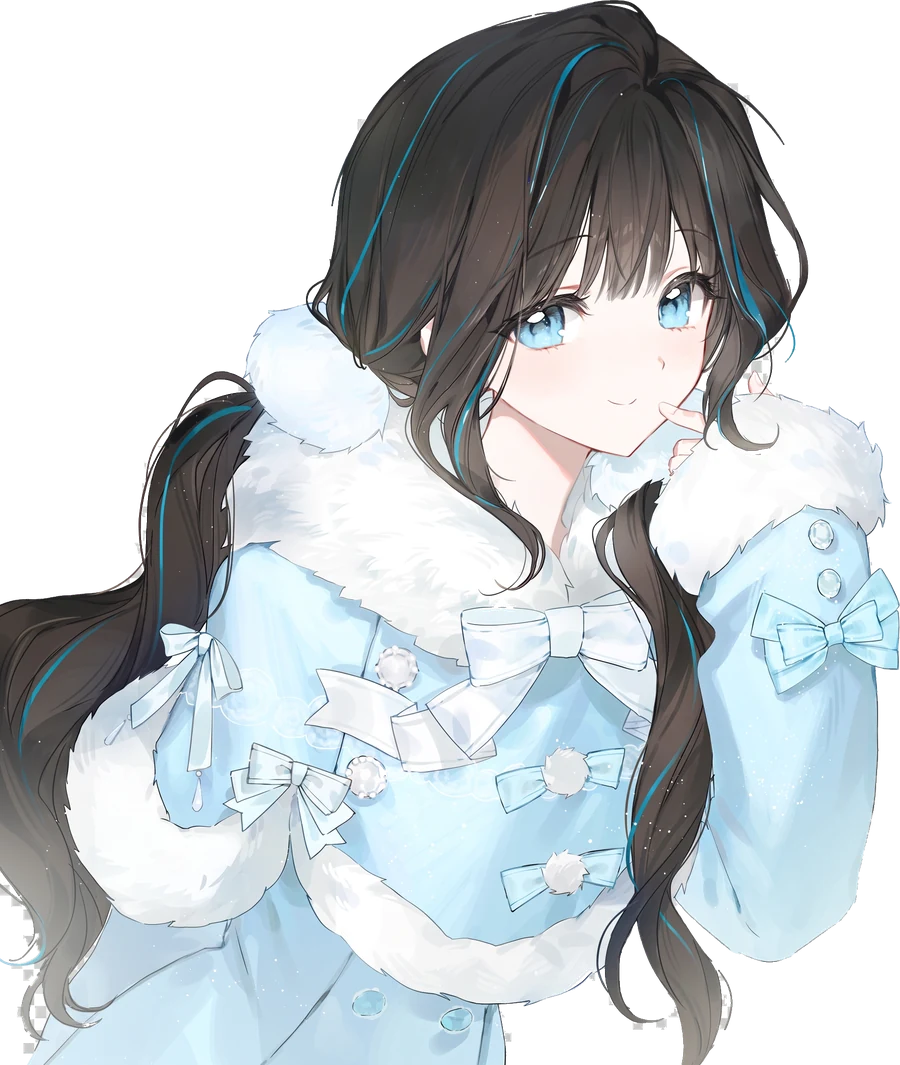
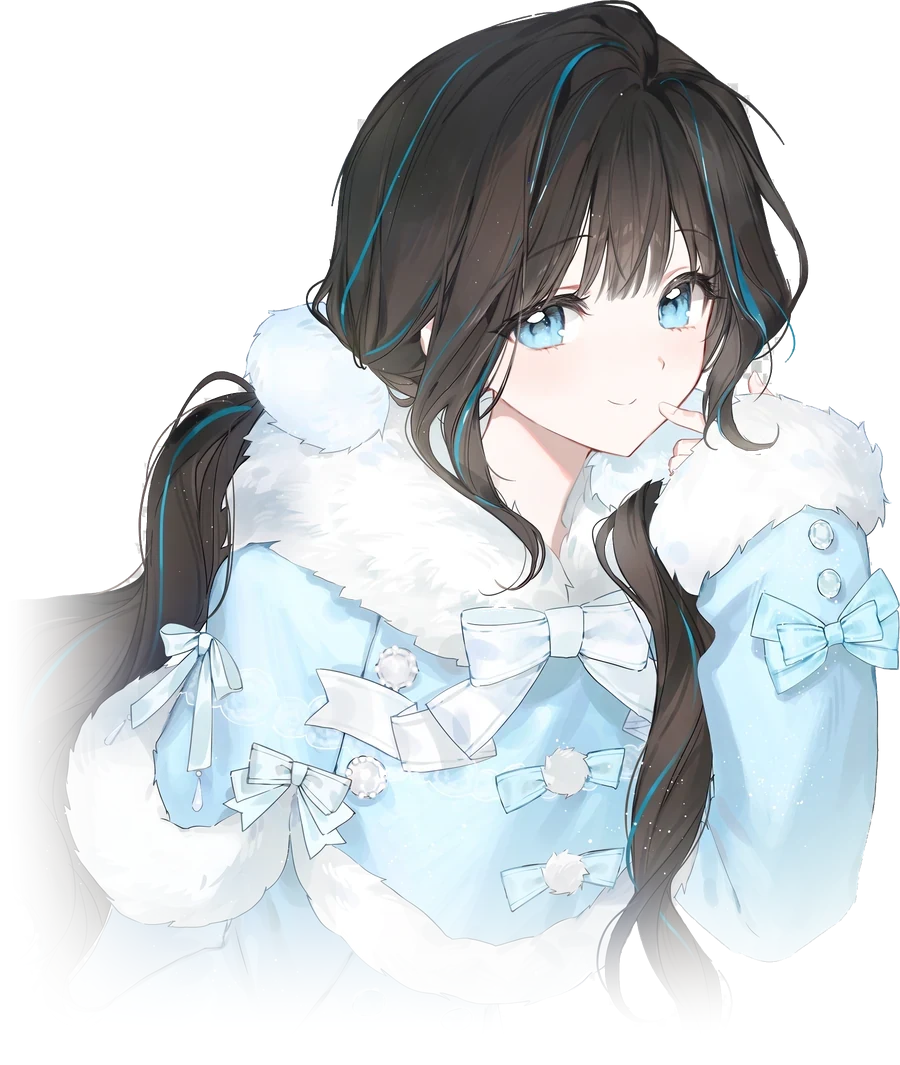
쭌식이 키우기: bake edge fade into the image instead of a CSS mask
The two-layer mask with mask-composite hid the whole character in some
browsers, so the fade now lives in the image's alpha channel.

Claude-Session: https://claude.ai/code/session_017rQ19ywEuhZ8571apgW3FU

Changed region(s): [[0.0, 0.4338, 0.9333, 1.0]]

diff --git a/loveinfo/junsik.html b/loveinfo/junsik.html
@@ -54,11 +54,6 @@
 /* ===== 캐릭터 ===== */
 .jg-chara{
   position:absolute;right:-34px;bottom:-26px;width:452px;z-index:3;pointer-events:none;
-  -webkit-mask-image:linear-gradient(90deg,transparent 0,#000 22%),linear-gradient(180deg,#000 74%,transparent 98%);
-  -webkit-mask-composite:source-in;
-          mask-image:linear-gradient(90deg,transparent 0,#000 22%),linear-gradient(180deg,#000 74%,transparent 98%);
-          mask-composite:intersect;
-  filter:drop-shadow(0 6px 16px rgba(79,150,210,.25));
   animation:jgFloat 5s ease-in-out infinite;
 }
 @keyframes jgFloat{0%,100%{transform:translateY(0)}50%{transform:translateY(-5px)}}
@@ -194,7 +189,7 @@
 .jg-body{display:flex;gap:14px;padding:16px 16px 6px;min-height:0;flex:1}
 .jg-face{
   flex:none;width:96px;height:96px;border-radius:50%;
-  background:#e3f3ff url("https://raw.githubusercontent.com/s2ndrome/love/claude/funny-turing-rvyssq/img/junsik-game.webp") 66% 22%/300% auto no-repeat;
+  background:#e3f3ff url("https://raw.githubusercontent.com/s2ndrome/love/claude/funny-turing-rvyssq/img/junsik-game.webp?v=2") 66% 22%/300% auto no-repeat;
   box-shadow:0 0 0 3px #fff,0 0 0 5px var(--rib);
 }
 .jg-text{flex:1;min-width:0;display:flex;flex-direction:column;min-height:0}
@@ -275,7 +270,7 @@
   </svg>
 
   <!-- 캐릭터 -->
-  <div class="jg-chara"><img src="https://raw.githubusercontent.com/s2ndrome/love/claude/funny-turing-rvyssq/img/junsik-game.webp" alt="쭌식이" draggable="false"></div>
+  <div class="jg-chara"><img src="https://raw.githubusercontent.com/s2ndrome/love/claude/funny-turing-rvyssq/img/junsik-game.webp?v=2" alt="쭌식이" draggable="false"></div>
 
   <!-- 메뉴: data-open 값이 아래 팝업 id랑 같아야 해요 -->
   <nav class="jg-menu">
@@ -435,7 +430,7 @@
 (function(){
   var root = document.getElementById('jg');
   if(!root) return;
-  var IMG = 'https://raw.githubusercontent.com/s2ndrome/love/claude/funny-turing-rvyssq/img/junsik-game.webp';
+  var IMG = 'https://raw.githubusercontent.com/s2ndrome/love/claude/funny-turing-rvyssq/img/junsik-game.webp?v=2';
   root.querySelectorAll('.jg-av,.jg-post').forEach(function(el){ el.style.backgroundImage = 'url("' + IMG + '")'; });
 
   /* ===== 효과음 (소리 버튼으로 켜고 끄기) ===== */
